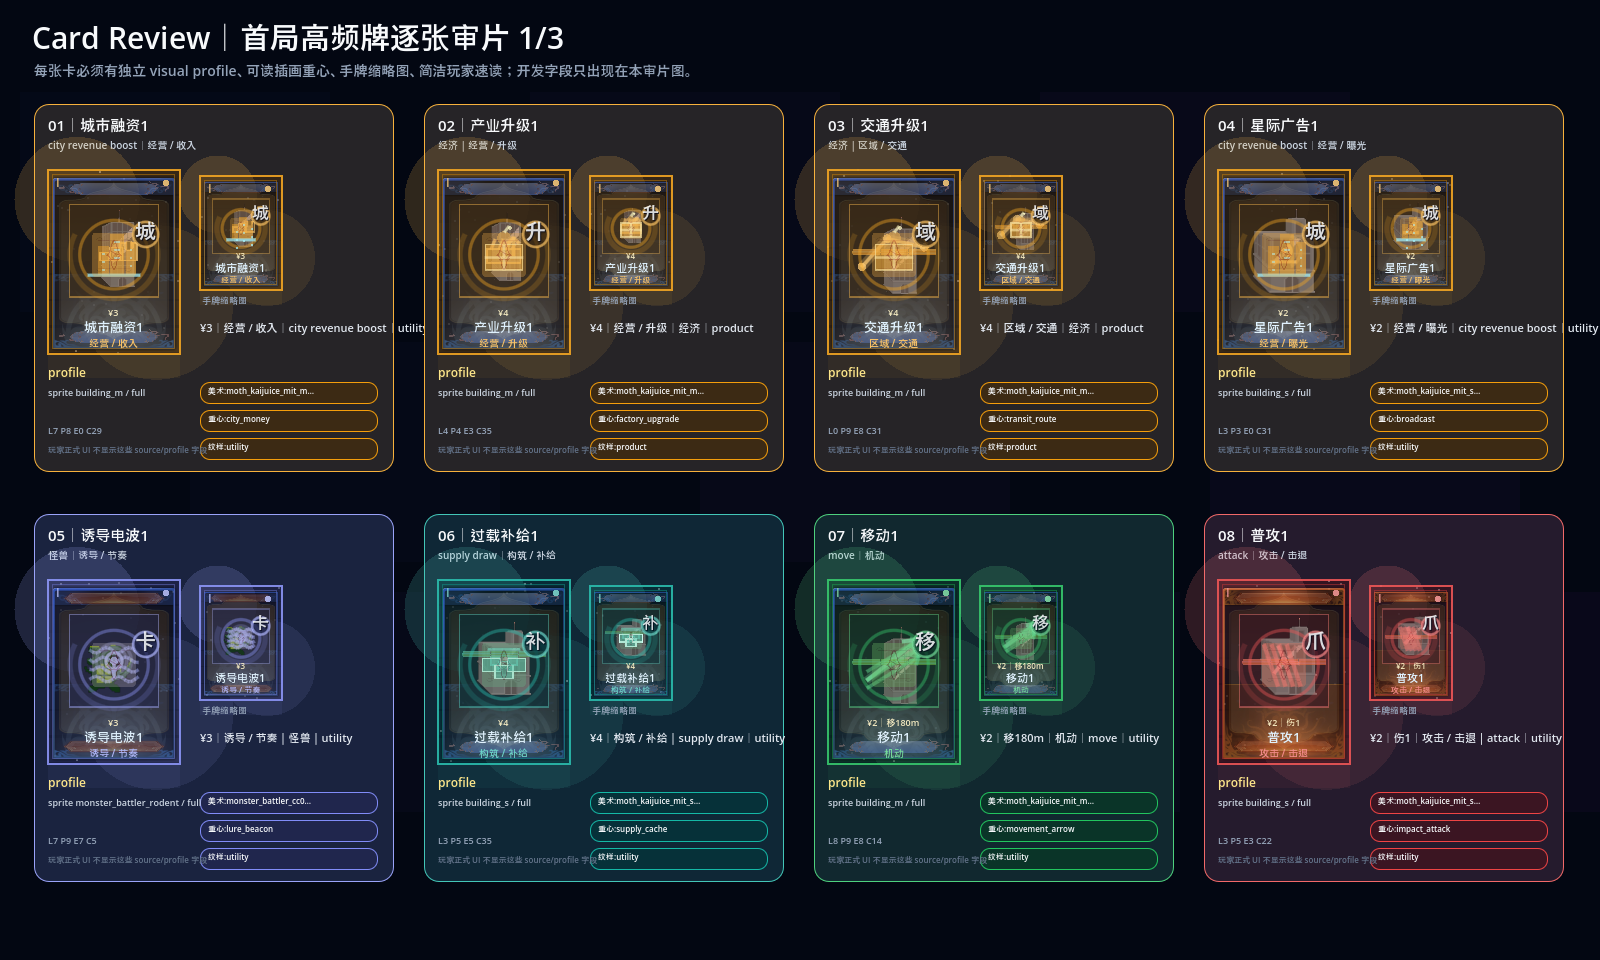
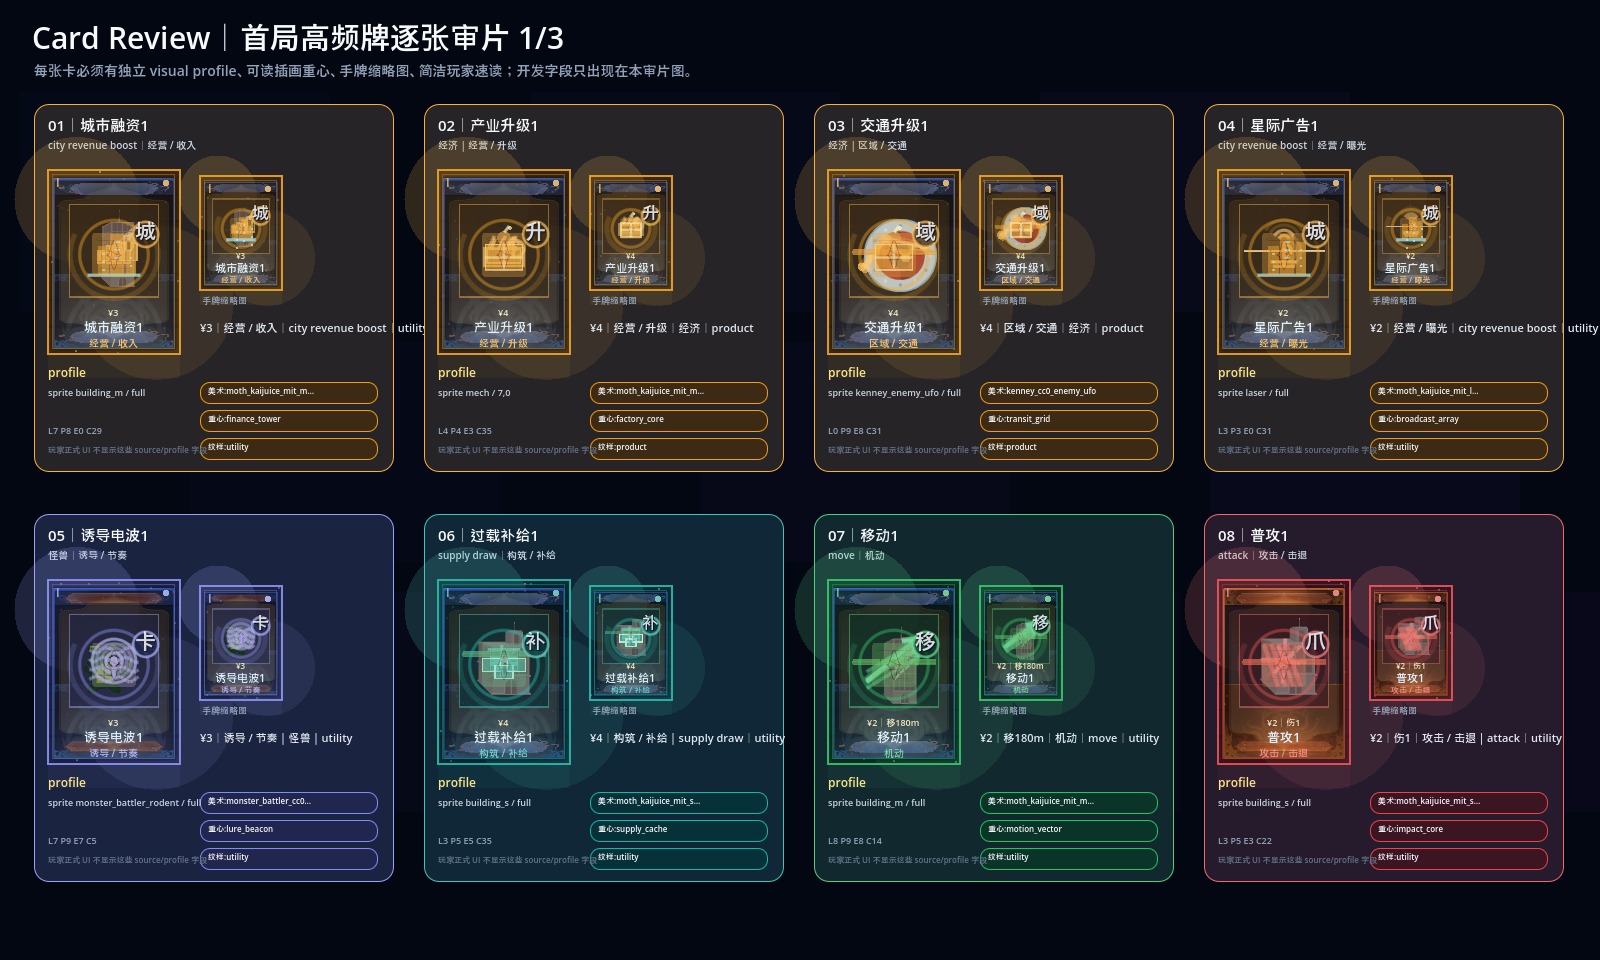
Add first-run card illustration anchors

diff --git a/docs/development_log.md b/docs/development_log.md
@@ -3,6 +3,29 @@
 > 本日志用于保存当前原型的规则决策、实现状态、验证方式和下一步开发方向。
 > 最新记录日期：2026-07-03。
 
+## 2026-07-03｜首局牌插画锚点拆分：经济牌不再只靠楼和文字区分
+
+- 继续沿着“真人能一眼看懂手牌”的方向推进，这轮不改规则、价格或结算，只改卡面视觉语言和审片门槛：
+  - `CardArtView.card_visual_profile_snapshot()` 新增 `illustration_anchor` 字段。
+  - 首局/高频牌现在有显式构图锚点，例如 `finance_tower / factory_core / transit_grid / broadcast_array / market_up / market_down / warehouse_stack / phase_null / air_wing / naval_fleet`。
+  - `产业升级1` 不再和融资牌共用普通楼房观感，改用机具/工厂机械锚点。
+  - `交通升级1` 改用轨道/飞行交通锚点。
+  - `星际广告1` 改用广播/光束锚点。
+  - 直接互动牌优先级修正：`星链拆解1` 和 `影仓牵引1` 不再因为带“情报”标签而被泛化成情报镜头。
+- `tests/card_runtime_review_capture.gd` 加硬门：
+  - 首批 24 张审片牌必须拥有指定 `illustration_anchor`。
+  - 如果某张牌视觉 profile 唯一但锚点错了、太泛化，审片脚本会失败。
+- `tests/art_identity_gate_test.gd` 加入 `illustration_anchor` 字段检查，防止之后卡牌 profile 退回只有 hash、颜色或名字差异。
+
+### 本轮验证
+
+- `tests/card_runtime_review_capture.gd` 有头通过，刷新 3 页首局高频卡牌逐张审片图。
+- `tests/visual_snapshot.gd` 通过，保护审片脚本里的 `REQUIRED_REVIEW_ANCHORS`、`illustration_anchor` 和 dev-only 字段边界。
+- `tests/ui_text_smoke_test.gd` 通过，确认玩家 UI 没有新增开发字段泄露。
+- `tests/art_identity_gate_test.gd` 通过，确认卡牌 profile 现在必须包含 `illustration_anchor`。
+- `tests/smoke_test.gd --check-only`、完整 `tests/smoke_test.gd` 通过，确认美术锚点拆分没有破坏主玩法闭环。
+- 人工抽看 `art_card_review_first_run_01.png`：融资、产业、交通、广告四张经济牌已经从“同一类楼房+不同文字”拆成金融塔、工厂核心、交通网和广播阵列四种画面重心。
+
 ## 2026-07-03｜首局高频卡牌逐张审片台
 
 - 继续执行“卡牌插画要一张一张做、不能看起来都差不多”的硬约束，这轮不改规则与数值，只补卡牌美术验收面：

diff --git a/docs/art_production_contract.md b/docs/art_production_contract.md
@@ -29,6 +29,7 @@ Each card illustration profile must include:
 - `composition_variant`: a secondary composition differentiator for cards that share sprite family and type.
 - `motif_family`: monster, military, finance, route, contract, intel, product, weather, or utility.
 - `first_run_art_focus`: a readable first-play icon layer for high-frequency starter cards such as money, production, transit, lure, supply, movement, attack, guard, and district damage.
+- `illustration_anchor`: the human-readable composition center, such as `finance_tower`, `factory_core`, `transit_grid`, `broadcast_array`, `market_up`, `phase_null`, or `naval_fleet`. This is stricter than a unique hash; it says what the player should see first.
 
 Acceptance:
 
@@ -38,6 +39,7 @@ Acceptance:
 - Every card illustration profile must declare `visual_source_id`.
 - At least ten sprite/illustration families and ten visual source families must be used across the current catalog.
 - High-frequency first-run cards must have authored `first_run_art_focus` overlays; do not let them collapse into the same generic route mark.
+- High-frequency review cards must have authored `illustration_anchor` values. A card can fail review even if its profile key is unique when the anchor is wrong or too generic.
 - Card art must be visible in hand, region supply, card codex thumbnail, and card detail contexts because these all share `CardArtView`.
 - First-run/high-frequency cards must also have per-card review sheets that show the full card, hand thumbnail, player scan text, and dev-only visual profile. This is the human art-review gate for catching cards that are technically unique but still feel like visual clones.
 
@@ -131,6 +133,7 @@ The gate fails if:
 - two cards share the same visual profile key;
 - fewer than ten card sprite or visual source families are used;
 - starter/high-frequency cards lose their authored `first_run_art_focus` overlays;
+- review cards lose their authored `illustration_anchor` composition centers;
 - a monster lacks a concrete sprite key/cell;
 - a monster lacks a concrete `visual_source_id`;
 - a monster lacks multi-axis visual fields;

diff --git a/docs/card_visual_theme_contract.md b/docs/card_visual_theme_contract.md
@@ -30,12 +30,13 @@
 - 不允许只靠文字区分卡牌类别。
 - 同一类别的不同路线至少要通过 sprite cell、构图、颜色、纹样、关键词或统计行形成第二层差异。
 - 高频首局牌必须有 `first_run_art_focus` 图形焦点；路线 glyph 只作为小徽章，不能压住卡牌插画主体。
+- 高频审片牌必须有 `illustration_anchor`，明确玩家第一眼应该看到的是金融塔、工厂核心、交通网、广播阵列、市场涨跌、仓储、相位否决、空军或舰队等哪一种画面重心。
 - 每张卡必须能生成唯一 visual profile；详见 `docs/art_production_contract.md` 和 `tests/art_identity_gate_test.gd`。
 
 ## 4. 开源素材边界
 
 - 当前原型可使用 `assets/third_party/night_patrol/ui/` 下的 frame、sigil、panel、button strip 作为非商业参考素材。
-- 当前原型可使用 `assets/third_party/moth_kaijuice/` 下的 MIT sprite，以及 `assets/third_party/monster_battler/`、`assets/third_party/kenney_cc0/`、`assets/third_party/superpowers_cc0/` 下的 CC0 sprite，作为卡牌插画/怪兽造型临时素材。
+- 当前原型可使用 `assets/third_party/moth_kaijuice/` 下的 MIT sprite，以及 `assets/third_party/monster_battler/`、`assets/third_party/kenney_cc0/`、`assets/third_party/pixelmob_cc0/`、`assets/third_party/superpowers_cc0/` 下的 CC0 sprite，作为卡牌插画/怪兽造型临时素材。
 - 代码必须把这些素材当作 optional reference layer：缺失时回退程序美术，不让游戏崩溃。
 - 商业发布前必须替换为自有素材或获得明确授权；详见 `docs/third_party_assets.md`。
 